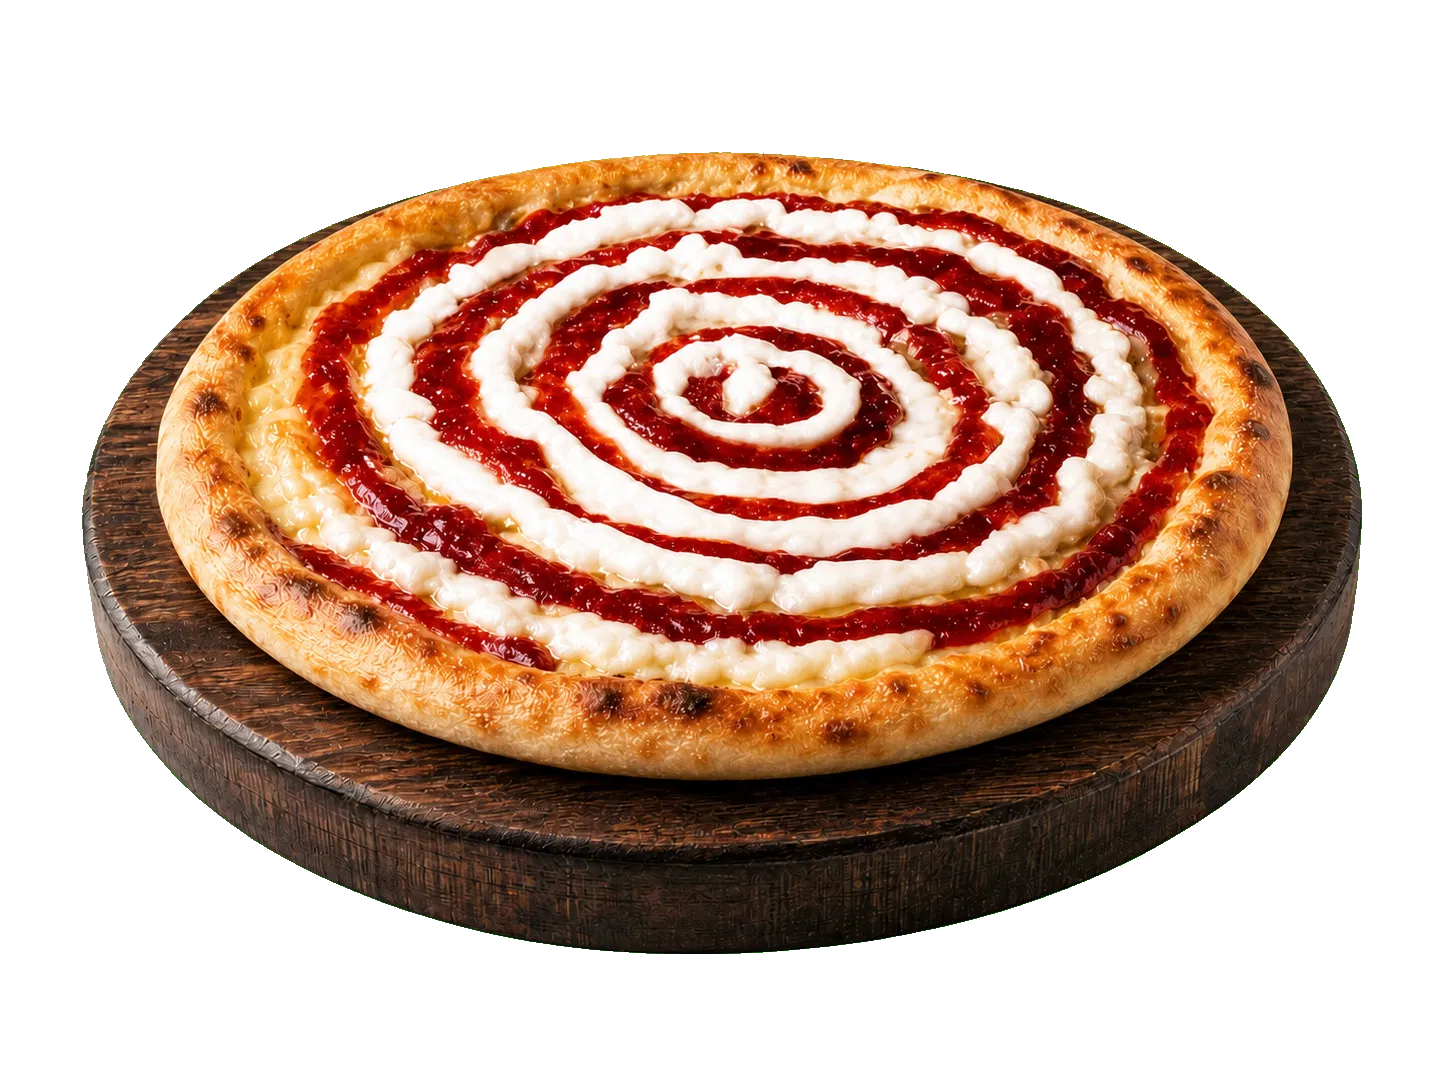
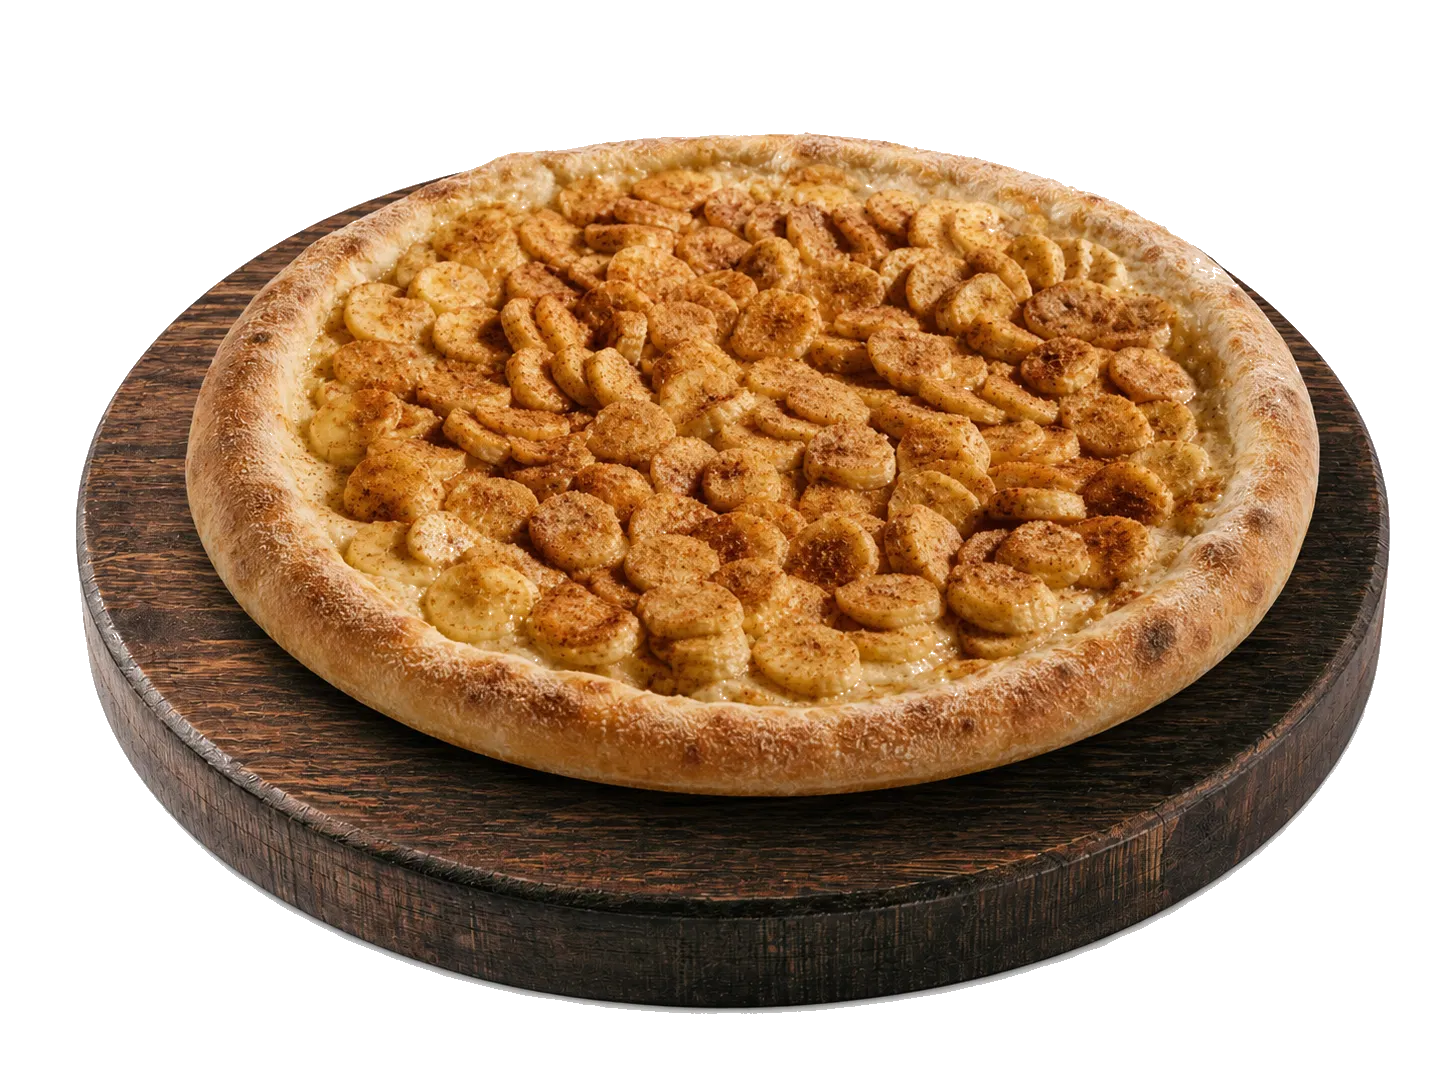
correção pizzas doces trocadas, adição de tamanho no monte iceberg e mudança do fundo pizza de sorvete

diff --git a/monte_iceberg.html b/monte_iceberg.html
@@ -18,7 +18,7 @@
             <div class="preview-box">
                 <img src="images/cardapio_img.jpeg" alt="Sua Pizza de Sorvete" id="pizza-preview">
                 <h1>Monte seu Iceberg</h1>
-                <span class="price-destaque">R$ 75,00</span>
+                <span class="price-destaque">Total: R$ 75,00</span>
             </div>
         </section>
         <section class="configurador-opcoes">
@@ -26,6 +26,45 @@
                 
                 <div class="passo-grupo">
                     <span class="passo-indicador">Passo 1</span>
+                    <h2>Escolha o Tamanho</h2>
+                    <div class="opcoes-flex">
+                        <label class="opcao-card">
+                            <input type="radio" name="tamanho" value="pequena">
+                            <span class="opcao-detalhe">Pequena</span>
+                            <span class="opcao-preco-badge normal">R$ 65,00</span>
+                        </label>
+                        <label class="opcao-card">
+                            <input type="radio" name="tamanho" value="media" checked>
+                            <span class="opcao-detalhe">Média</span>
+                            <span class="opcao-preco-badge normal">R$ 75,00</span>
+                        </label>
+                        <label class="opcao-card">
+                            <input type="radio" name="tamanho" value="grande">
+                            <span class="opcao-detalhe">Grande</span>
+                            <span class="opcao-preco-badge normal">R$ 90,00</span>
+                        </label>
+                    </div>
+                </div>
+
+                <div class="passo-grupo">
+                    <span class="passo-indicador">Passo 2</span>
+                    <h2>Escolha a Borda</h2>
+                    <div class="opcoes-flex">
+                        <label class="opcao-card">
+                            <input type="radio" name="borda" value="sem_borda" checked>
+                            <span class="opcao-detalhe">Sem Borda</span>
+                            <span class="opcao-preco-badge normal">grátis</span>
+                        </label>
+                        <label class="opcao-card">
+                            <input type="radio" name="borda" value="chocolate">
+                            <span class="opcao-detalhe">Borda de Chocolate</span>
+                            <span class="opcao-preco-badge acrescimo">+ R$ 10,00</span>
+                        </label>
+                    </div>
+                </div>
+
+                <div class="passo-grupo">
+                    <span class="passo-indicador">Passo 3</span>
                     <h2>Escolha a Base da Massa</h2>
                     <div class="opcoes-flex">
                         <label class="opcao-card">
@@ -40,7 +79,7 @@
                 </div>
 
                 <div class="passo-grupo">
-                    <span class="passo-indicador">Passo 2</span>
+                    <span class="passo-indicador">Passo 4</span>
                     <h2>Escolha o Sabor do Sorvete (Até 2 sabores)</h2>
                     <p id="aviso-sorvete" style="display:none; color:var(--color-cta-dark); font-size:0.9rem; margin-bottom:0.5rem; font-weight:600;">⚠️ Máximo de 2 sabores permitidos.</p>
                     <div class="opcoes-flex grid-2-col">
@@ -61,18 +100,18 @@
                             <span class="opcao-detalhe">Chocolate Branco</span>
                         </label>
                         <label class="opcao-card checkbox-card">
-                            <input type="checkbox" name="sorvete" value="flocos">
+                            <input type="checkbox" name="sorvete" value="ninho">
                             <span class="opcao-detalhe">Ninho</span>
                         </label>
                         <label class="opcao-card checkbox-card">
-                            <input type="checkbox" name="sorvete" value="flocos">
+                            <input type="checkbox" name="sorvete" value="frutas-vermelhas">
                             <span class="opcao-detalhe">Frutas Vermelhas</span>
                         </label>
                     </div>
                 </div>
 
                 <div class="passo-grupo">
-                    <span class="passo-indicador">Passo 3</span>
+                    <span class="passo-indicador">Passo 5</span>
                     <h2>Adicione os Toppings (Opcional)</h2>
                     <div class="opcoes-flex grid-2-col">
                         <label class="opcao-card checkbox-card">
@@ -144,33 +183,55 @@
             });
         });
 
-        // Dynamic price update for toppings
-        const toppingsCheckboxes = document.querySelectorAll('input[name="toppings"]');
+        // Dynamic price update
         const priceDestaque = document.querySelector('.price-destaque');
 
         function getCalculatedPrice() {
             let total = 75.00;
+            
+            // Tamanho
+            const tamanhoEl = document.querySelector('input[name="tamanho"]:checked');
+            if (tamanhoEl) {
+                if (tamanhoEl.value === 'pequena') total -= 10.00;
+                else if (tamanhoEl.value === 'grande') total += 15.00;
+            }
+
+            // Borda
+            const bordaEl = document.querySelector('input[name="borda"]:checked');
+            if (bordaEl) {
+                if (bordaEl.value === 'chocolate') total += 10.00;
+            }
+
+            // Toppings
             const checkedToppings = Array.from(document.querySelectorAll('input[name="toppings"]:checked')).map(cb => cb.value);
-            if (checkedToppings.includes('oreo')) total += 3.00;
-            if (checkedToppings.includes('mms')) total += 4.00;
+            if (checkedToppings.includes('oreo')) total += 4.00;
+            if (checkedToppings.includes('choco-ball')) total += 2.00;
+            if (checkedToppings.includes('ovomaltine')) total += 4.00;
+            if (checkedToppings.includes('marshmallow-tostado')) total += 3.00;
+            if (checkedToppings.includes('mms')) total += 3.00;
+
             return total;
         }
 
         function updateIcebergPrice() {
             const total = getCalculatedPrice();
-            priceDestaque.textContent = `R$ ${total.toFixed(2).replace('.', ',')}`;
+            priceDestaque.textContent = `Total: R$ ${total.toFixed(2).replace('.', ',')}`;
         }
 
-        toppingsCheckboxes.forEach(cb => {
-            cb.addEventListener('change', updateIcebergPrice);
-        });
+        // Listen for any changes on the form to update price
+        icebergForm.addEventListener('change', updateIcebergPrice);
 
         function getSelectedValues(name) {
             return Array.from(document.querySelectorAll(`input[name="${name}"]:checked`)).map(input => input.value);
         }
 
-        function buildIcebergObservation(massa, sorvetes, toppings) {
+        function buildIcebergObservation(tamanho, borda, massa, sorvetes, toppings) {
+            const tamanhoLabel = { pequena: 'Pequena', media: 'Média', grande: 'Grande' };
+            const bordaLabel = { sem_borda: 'Sem Borda', chocolate: 'Chocolate' };
+            
             const lines = [
+                `Tamanho: ${tamanhoLabel[tamanho] || tamanho}`,
+                `Borda: ${bordaLabel[borda] || borda}`,
                 `Massa: ${massa.replace('_', ' ')}`,
                 `Sorvetes: ${sorvetes.map(s => s.replace('_', ' ')).join(', ')}`
             ];
@@ -183,6 +244,8 @@
         icebergForm.addEventListener('submit', function (event) {
             event.preventDefault();
 
+            const tamanho = getSelectedValues('tamanho')[0];
+            const borda = getSelectedValues('borda')[0];
             const massa = getSelectedValues('massa')[0];
             const sorvetes = getSelectedValues('sorvete');
             const toppings = getSelectedValues('toppings');
@@ -204,7 +267,7 @@
                 preco: `R$ ${calculatedPrice.toFixed(2).replace('.', ',')}`,
                 imagem: defaultImage,
                 quantidade: 1,
-                observacao: buildIcebergObservation(massa, sorvetes, toppings)
+                observacao: buildIcebergObservation(tamanho, borda, massa, sorvetes, toppings)
             };
 
             const carrinho = JSON.parse(localStorage.getItem('carrinho') || '[]');

diff --git a/script_produto.js b/script_produto.js
@@ -137,10 +137,10 @@ const cardapio = {
         descricao: "Fatias de banana fresca com açúcar e canela salpicados, gratinadas com muçarela ou leite condensado.",
         imagem: "images/sobremesas/sobremesa4.png"
     },
-    nutella_morango: {
-        titulo: "Pizza de Nutella com Morango",
+    pacoca: {
+        titulo: "Pizza de Paçoca",
         preco: "R$ 66,00",
-        descricao: "Generosa camada do autêntico creme de avelã Nutella, coberta com morangos frescos selecionados e açúcar de confeiteiro.",
+        descricao: "Uma combinação irresistível de creme especial e generosas camadas de paçoca esfarelada, criando o equilíbrio perfeito entre cremosidade e o sabor marcante do amendoim. Uma sobremesa que conquista a cada fatia.",
         imagem: "images/sobremesas/sobremesa5.png"
     },
     prestigio: {
@@ -334,14 +334,18 @@ if (saborSelecionado && cardapio[saborSelecionado]) {
         'margherita_veggie', 'milho_catupiry', 'escarola', 'berinjela',
         'funghi', 'vegetariana_completa',
         'brigadeiro', 'morango_chocolate', 'romeu_julieta', 'banana_canela',
-        'nutella_morango', 'prestigio'
+        'pacoca', 'prestigio',
+        'oreo', 'ninho', 'glaciar_frutas', 'pinguim_imperial', 'avalanche_ovomaltine', 'alasca_tostado'
     ];
     const selecoesPizza = document.getElementById('selecoes-pizza');
     if (selecoesPizza && pizzaKeys.includes(saborSelecionado)) {
         selecoesPizza.style.display = 'block';
 
         // Sweet pizza border options restriction
-        const sweetPizzaKeys = ['brigadeiro', 'morango_chocolate', 'romeu_julieta', 'banana_canela', 'nutella_morango', 'prestigio'];
+        const sweetPizzaKeys = [
+            'brigadeiro', 'morango_chocolate', 'romeu_julieta', 'banana_canela', 'pacoca', 'prestigio',
+            'oreo', 'ninho', 'glaciar_frutas', 'pinguim_imperial', 'avalanche_ovomaltine', 'alasca_tostado'
+        ];
         if (sweetPizzaKeys.includes(saborSelecionado)) {
             const catupiryCard = document.querySelector('input[name="borda"][value="catupiry"]');
             const cheddarCard = document.querySelector('input[name="borda"][value="cheddar"]');
@@ -533,7 +537,7 @@ if (qntdElement && btnMenos && btnMais && btnAdicionarCarrinho) {
             morango_chocolate: 'menu_sobremesa.html#sobremesas-doces',
             romeu_julieta: 'menu_sobremesa.html#sobremesas-doces',
             banana_canela: 'menu_sobremesa.html#sobremesas-doces',
-            nutella_morango: 'menu_sobremesa.html#sobremesas-doces',
+            pacoca: 'menu_sobremesa.html#sobremesas-doces',
             prestigio: 'menu_sobremesa.html#sobremesas-doces',
             oreo: 'menu_sobremesa.html#paraiso-gelado',
             ninho: 'menu_sobremesa.html#paraiso-gelado',
@@ -612,7 +616,7 @@ if (qntdElement && btnMenos && btnMais && btnAdicionarCarrinho) {
                 morango_chocolate: 'cardapio.html#sobremesas-doces',
                 romeu_julieta: 'cardapio.html#sobremesas-doces',
                 banana_canela: 'cardapio.html#sobremesas-doces',
-                nutella_morango: 'cardapio.html#sobremesas-doces',
+                pacoca: 'cardapio.html#sobremesas-doces',
                 prestigio: 'cardapio.html#sobremesas-doces',
                 // Paraíso Gelado
                 oreo: 'cardapio.html#paraiso-gelado',

diff --git a/menu_sobremesa.html b/menu_sobremesa.html
@@ -36,9 +36,9 @@
                     <h2>Banana com canela</h2>                   
                     <span class="price">R$ 64,00</span>
             </article></a>
-            <a href="produto.html?sabor=nutella_morango"><article>
+            <a href="produto.html?sabor=pacoca"><article>
                 <img src="images/sobremesas/sobremesa5.png" alt="Sobremesa 5">
-                    <h2>Nutella com morango</h2>                 
+                    <h2>Paçoca</h2>                 
                     <span class="price">R$ 66,00</span>
             </article></a>
             <a href="produto.html?sabor=prestigio"><article>

diff --git a/css/components/card.css b/css/components/card.css
@@ -28,7 +28,7 @@
 }
 
 .pizza_sorvete article {
-    background-image: url('../../images/fundo_sorvete.png'); 
+    background-image: url('../../images/fundo_sorvete.jpg'); 
 }
 
 .grid article img {

diff --git a/README.md b/README.md
@@ -45,7 +45,8 @@ Este projeto é composto por páginas estáticas que simulam um site de pizzaria
 
 
 ## Problemas
-- imagem da sprite não aparecendo nas promoções
+
+- Ordem invertida das pizzas de banana com canela e romeu e julieta, além disso, mudar a descrição e titulo da pizza de paçoca
 
 ## A fazer
 - Adicionar o menu
@@ -56,11 +57,7 @@ Este projeto é composto por páginas estáticas que simulam um site de pizzaria
 
 - Perfil admin
 
-- Mudar imagens da pizzas para png - quase
-
 - Melhorar e padronizar os ícones - fazendo
-
-- Fazer o pesquisar funcionar - fazendo
 
 - Roleta da pizza / cartão fidelidade
 